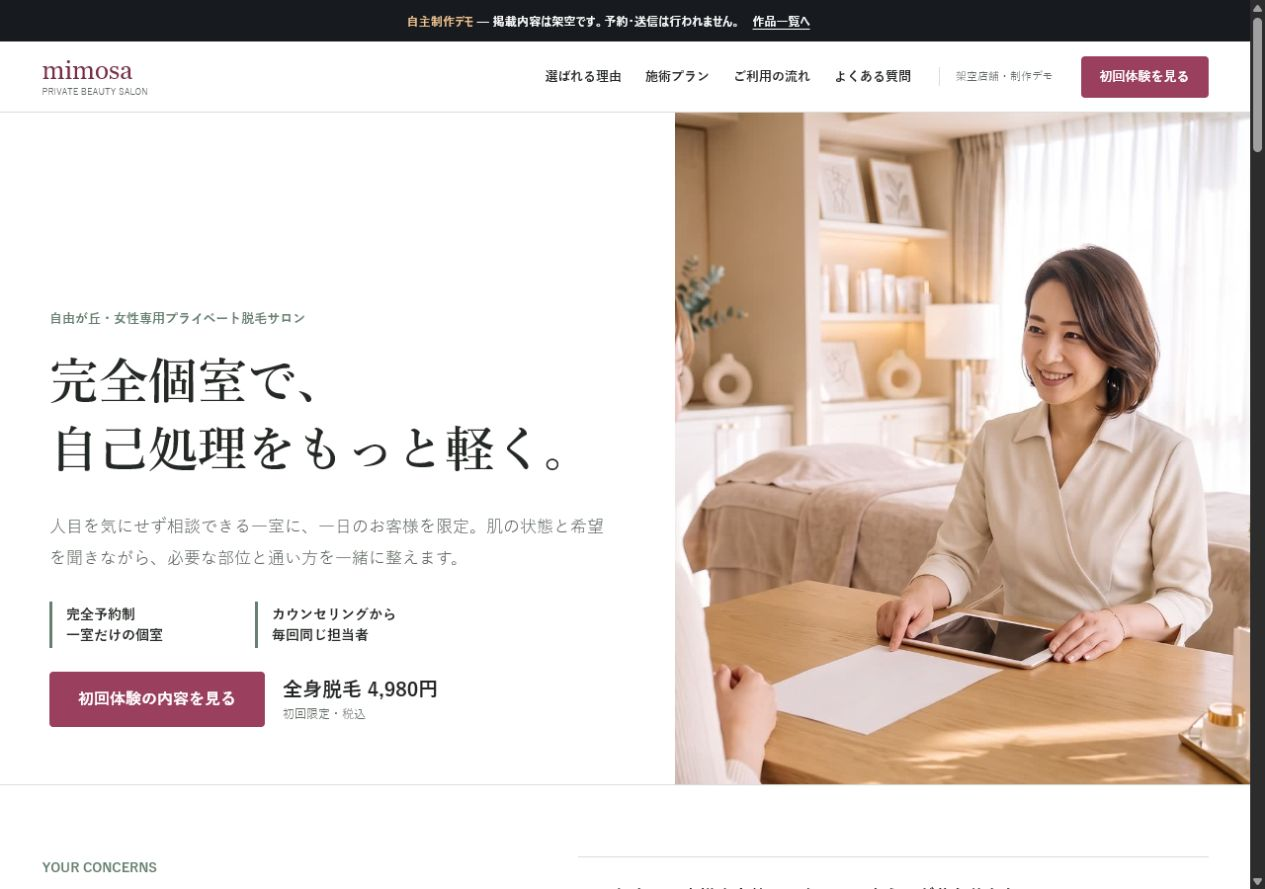
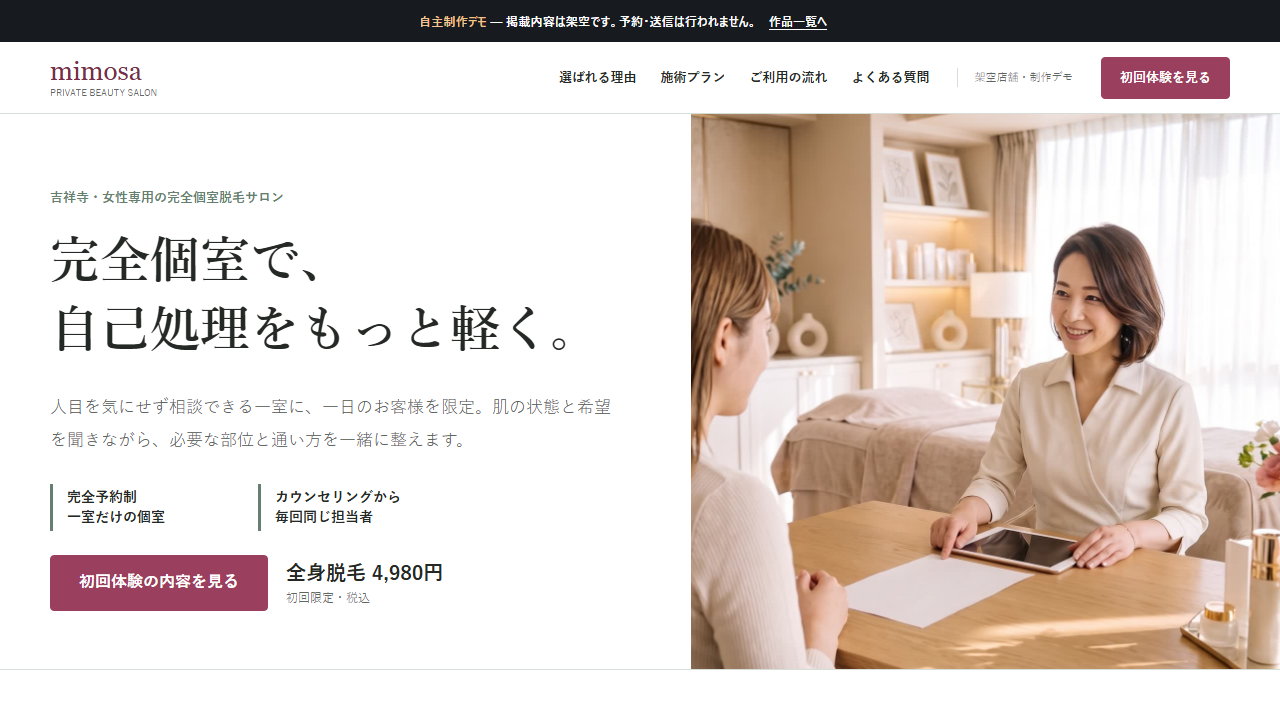
mimosaの設定重複を解消し、ハブの掲載順を作品の強さ順に変更
- mimosa: 立地を自由が丘から吉祥寺へ変更し、「プライベート」表現を
  「完全個室」に統一（SUHADAとの設定丸被りを解消。カード文言も同期）
- ハブ掲載順: 監査の実在比較評価に基づき inahodo（大カード）→月讀→
  SUHADA→ケーススタディ→他 に変更。READMEの一覧も同期
- mimosaのプレビュー画像を新FVで再生成

diff --git a/index.html b/index.html
@@ -36,13 +36,6 @@
 
       <div class="work-grid">
         <article class="work-card featured">
-          <a href="ai-lp-before-after/" aria-label="AI生成LP改善ケーススタディを見る">
-            <div class="preview"><img src="assets/previews/ai-lp-before-after.png" alt="AI生成LP改善ケーススタディの画面" loading="lazy"></div>
-            <div class="card-body"><div class="tags"><span>CASE STUDY</span><span>BtoB</span></div><h3>AI生成LP 改善ケーススタディ</h3><p>AIで作った初稿を、構成・コピー・デザイン・導線の観点から改善する考え方をBefore／Afterで紹介。</p><span class="view">ページを見る <b>↗</b></span></div>
-          </a>
-        </article>
-
-        <article class="work-card">
           <a href="inahodo/" aria-label="稲穂堂のLPを見る">
             <div class="preview"><img src="assets/previews/inahodo.png" alt="稲穂堂 栗きんとんお取り寄せLPの画面" loading="lazy"></div>
             <div class="card-body"><div class="tags"><span>FOOD</span><span>画像LP</span></div><h3>稲穂堂（いなほどう）</h3><p>和紙の繊維・筆文字・朱印を活かした和モダンの商品LP。同じ画像LPの手法で、月讀とは正反対のトーンをどこまで作り分けられる<span class="bw">かを検証。</span></p><span class="view">ページを見る <b>↗</b></span></div>
@@ -50,9 +43,23 @@
         </article>
 
         <article class="work-card">
+          <a href="tsukuyomi/" aria-label="月讀のLPを見る">
+            <div class="preview"><img src="assets/previews/tsukuyomi.png" alt="月讀オーダーメイド結婚指輪LPの画面" loading="lazy"></div>
+            <div class="card-body"><div class="tags"><span>JEWELRY</span><span>画像LP</span></div><h3>月讀（つくよみ）</h3><p>手描きCSSでは出せない箔押しの質感を、AI生成画像の縦スライスで構成。価格とCTAは画像に焼き込まずHTMLで重ね、文言修正に<span class="bw">即応できる作り。</span></p><span class="view">ページを見る <b>↗</b></span></div>
+          </a>
+        </article>
+
+        <article class="work-card">
           <a href="suhada/" aria-label="SUHADAのLPを見る">
             <div class="preview"><img src="assets/previews/suhada.png" alt="SUHADA脱毛サロンLPの画面" loading="lazy"></div>
             <div class="card-body"><div class="tags"><span>SALON</span><span>EDITORIAL</span></div><h3>SUHADA</h3><p>完全個室の静けさと大人向けの安心感を、余白と写真を活かして伝えるエディトリアルLP。</p><span class="view">ページを見る <b>↗</b></span></div>
+          </a>
+        </article>
+
+        <article class="work-card">
+          <a href="ai-lp-before-after/" aria-label="AI生成LP改善ケーススタディを見る">
+            <div class="preview"><img src="assets/previews/ai-lp-before-after.png" alt="AI生成LP改善ケーススタディの画面" loading="lazy"></div>
+            <div class="card-body"><div class="tags"><span>CASE STUDY</span><span>BtoB</span></div><h3>AI生成LP 改善ケーススタディ</h3><p>AIで作った初稿を、構成・コピー・デザイン・導線の観点から改善する考え方をBefore／Afterで紹介。</p><span class="view">ページを見る <b>↗</b></span></div>
           </a>
         </article>
 
@@ -67,13 +74,6 @@
           <a href="michishirube/" aria-label="みちしるべ行政書士事務所のLPを見る">
             <div class="preview"><img src="assets/previews/michishirube.png" alt="みちしるべ行政書士事務所LPの画面" loading="lazy"></div>
             <div class="card-body"><div class="tags"><span>士業</span><span>相談予約型</span></div><h3>みちしるべ行政書士事務所</h3><p>補助金・許認可・相続の相談を予約につなげる士業LP。デジタル庁デザインシステムの公開規約をデザイントークンとして移植し、公共系の誠実なトーンで信頼を伝える構成。</p><span class="view">ページを見る <b>↗</b></span></div>
-          </a>
-        </article>
-
-        <article class="work-card">
-          <a href="tsukuyomi/" aria-label="月讀のLPを見る">
-            <div class="preview"><img src="assets/previews/tsukuyomi.png" alt="月讀オーダーメイド結婚指輪LPの画面" loading="lazy"></div>
-            <div class="card-body"><div class="tags"><span>JEWELRY</span><span>画像LP</span></div><h3>月讀（つくよみ）</h3><p>手描きCSSでは出せない箔押しの質感を、AI生成画像の縦スライスで構成。価格とCTAは画像に焼き込まずHTMLで重ね、文言修正に<span class="bw">即応できる作り。</span></p><span class="view">ページを見る <b>↗</b></span></div>
           </a>
         </article>
 
@@ -115,7 +115,7 @@
         <article class="work-card">
           <a href="mimosa/" aria-label="mimosaのLPを見る">
             <div class="preview"><img src="assets/previews/mimosa.png" alt="mimosa脱毛サロンLPの画面" loading="lazy"></div>
-            <div class="card-body"><div class="tags"><span>SALON</span><span>PREMIUM</span></div><h3>mimosa</h3><p>オーナー一貫対応とプライベート感を、高級感のある配色と落ち着いた<span class="bw">コピーで表現。</span></p><span class="view">ページを見る <b>↗</b></span></div>
+            <div class="card-body"><div class="tags"><span>SALON</span><span>PREMIUM</span></div><h3>mimosa</h3><p>オーナー一貫対応と完全個室の安心感を、高級感のある配色と落ち着いた<span class="bw">コピーで表現。</span></p><span class="view">ページを見る <b>↗</b></span></div>
           </a>
         </article>
       </div>

diff --git a/mimosa/index.html b/mimosa/index.html
@@ -4,8 +4,8 @@
   <meta charset="utf-8">
   <meta name="viewport" content="width=device-width, initial-scale=1">
   <meta name="robots" content="noindex,nofollow">
-  <meta name="description" content="自由が丘の女性専用プライベート脱毛サロン「mimosa」を想定したランディングページ制作デモです。">
-  <title>自由が丘の完全個室脱毛サロン mimosa｜初回体験4,980円（架空店舗・制作デモ）</title>
+  <meta name="description" content="吉祥寺の女性専用・完全個室脱毛サロン「mimosa」を想定したランディングページ制作デモです。">
+  <title>吉祥寺の完全個室脱毛サロン mimosa｜初回体験4,980円（架空店舗・制作デモ）</title>
   <link rel="icon" href="data:,">
   <link rel="preload" as="image" href="assets/photo-01.jpg" media="(min-width: 781px)">
   <link rel="preload" as="image" href="assets/photo-03.jpg" media="(max-width: 780px)">
@@ -1327,7 +1327,7 @@ p,li,dt,dd{text-wrap:pretty}
     <section class="hero" id="top" aria-labelledby="hero-title">
       <div class="hero-grid">
         <div class="hero-copy">
-          <p class="eyebrow">自由が丘・女性専用プライベート脱毛サロン</p>
+          <p class="eyebrow">吉祥寺・女性専用の完全個室脱毛サロン</p>
           <h1 id="hero-title">完全個室で、<br><span class="bw">自己処理を</span><span class="bw">もっと軽く。</span></h1>
           <p class="hero-lead">人目を気にせず相談できる一室に、一日のお客様を限定。肌の状態と希望を聞きながら、必要な部位と通い方を一緒に整えます。</p>
         </div>
@@ -1355,7 +1355,7 @@ p,li,dt,dd{text-wrap:pretty}
         <div class="concern-copy">
           <p class="section-kicker">YOUR CONCERNS</p>
           <h2 id="concerns-title">脱毛を始めたいのに、<br>ためらってしまう理由。</h2>
-          <p>mimosaは、施術だけでなく「相談しやすさ」と「通いやすさ」から整える、架空のプライベートサロンです。</p>
+          <p>mimosaは、施術だけでなく「相談しやすさ」と「通いやすさ」から整える、架空の完全個室サロンです。</p>
         </div>
         <ul class="concern-list">
           <li>ほかのお客様や大勢のスタッフに会うのが落ち着かない</li>
@@ -1551,7 +1551,7 @@ p,li,dt,dd{text-wrap:pretty}
         <div class="final-cta-copy">
           <p class="section-kicker">PRIVATE APPOINTMENT</p>
           <h2 id="final-title"><span class="bw">人目を気にしない</span><span class="bw">一室で、</span><br><span class="bw">肌の悩みを</span><span class="bw">相談してみませんか。</span></h2>
-          <p>自由が丘駅から徒歩3分／完全予約制／営業時間 10:00–19:00</p>
+          <p>吉祥寺駅から徒歩4分／完全予約制／営業時間 10:00–19:00</p>
         </div>
         <div class="final-action">
           <button class="button-light" type="button" data-demo-contact>予約相談をデモ体験</button>
@@ -1566,7 +1566,7 @@ p,li,dt,dd{text-wrap:pretty}
       <div class="footer-main">
         <div>
           <p class="footer-brand">mimosa</p>
-          <p class="footer-info">女性専用プライベート脱毛サロン<br>東京都目黒区自由が丘 0-0-0（架空住所）</p>
+          <p class="footer-info">女性専用・完全個室脱毛サロン<br>東京都武蔵野市吉祥寺本町 0-0-0（架空住所）</p>
         </div>
         <div class="footer-links" aria-label="フッターナビゲーション">
           <a href="#reasons">選ばれる理由</a>

diff --git a/README.md b/README.md
@@ -9,12 +9,12 @@
 
 ## 公開作品
 
-1. AI生成LP 改善ケーススタディ
-2. 稲穂堂（いなほどう）栗きんとんお取り寄せ — 画像LP
+1. 稲穂堂（いなほどう）栗きんとんお取り寄せ — 画像LP
+2. 月讀（つくよみ）オーダーメイド結婚指輪 — 画像LP
 3. SUHADA 脱毛サロン
-4. Nail atelier Siena ネイルサロン
-5. みちしるべ行政書士事務所
-6. 月讀（つくよみ）オーダーメイド結婚指輪 — 画像LP
+4. AI生成LP 改善ケーススタディ
+5. Nail atelier Siena ネイルサロン
+6. みちしるべ行政書士事務所
 7. フェリシェ 脱毛サロン
 8. Coloris パーソナルカラーサロン
 9. こかげ整体院
